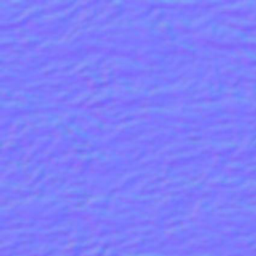
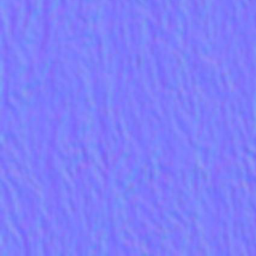
ADD: water shader +stuff

diff --git a/index.html b/index.html
@@ -104,6 +104,8 @@
 		var wallL = null;
 		var wallR = null;
 
+		var renderTarget;
+
 
 		var createScene = async function (jsonData) {
 
@@ -175,6 +177,7 @@
 
 							//FRAME
 							let frame = mesh.clone();
+							renderTarget.renderList.push(frame);
 							frame.name = mesh.name.replace("Asset", "Frame");
 							let matFrame = new BABYLON.StandardMaterial("matFrame", scene);
 							matFrame.diffuseColor = color2;
@@ -211,6 +214,7 @@
 								frame.scaling = frame.scaling.multiply(frameScale);
 								mesh.material = GetPlaceholder();
 							}
+							renderTarget.renderList.push(mesh);
 						}
 
 						//LOGO
@@ -220,6 +224,7 @@
 							matLogo.diffuseTexture = texLogo;
 							matLogo.speculartexture = texLogo;
 							mesh.material = matLogo;
+							renderTarget.renderList.push(mesh);
 						}
 						//BANNER
 						if (mesh.name.indexOf("GalleyBanne") > -1) {
@@ -232,6 +237,7 @@
 						//LOGO3D
 						if (mesh.name.indexOf("Logo_Float") > -1) {
 							logoFloat = mesh;
+							renderTarget.renderList.push(mesh);
 						}
 
 						if (mesh.name.indexOf("glass") > -1) {
@@ -239,8 +245,13 @@
 						}
 						if (mesh.name.indexOf("aterFall") > -1) {
 							//WATER
-							mesh.visibility = false;
-							mesh.checkCollisions = true;
+							// mesh.visibility = false;
+							// mesh.checkCollisions = true;
+							mesh.material = waterMat;
+							var waterClone = mesh.clone();
+							waterClone.scaling = new BABYLON.Vector3(2, 2, 2);
+							waterClone.checkCollisions = true;
+							waterClone.visibility = false;
 						}
 
 						//WALLS + SCENE
@@ -256,9 +267,11 @@
 							mesh.material = mat;
 
 							mesh.checkCollisions = true;
+							renderTarget.renderList.push(mesh);
 						}
 						if (mesh.name.indexOf("Wall_0") > -1) {
 							mesh.checkCollisions = true;
+							renderTarget.renderList.push(mesh);
 						}
 
 						//DOORS
@@ -277,7 +290,7 @@
 
 						if (mesh.name.indexOf("Start") > -1) {
 							mesh.position = new BABYLON.Vector3(mesh.position.x, camHeight, mesh.position.z);
-							mesh.translate(BABYLON.Axis.Z, -4, BABYLON.Space.LOCAL);
+							mesh.translate(BABYLON.Axis.Z, -0, BABYLON.Space.LOCAL);
 							camera.position = mesh.position;
 						}
 
@@ -294,6 +307,7 @@
 					skyboxMaterial.specularColor = new BABYLON.Color3.Black();
 					skyboxMaterial.disableLighting = true;
 					skybox.material = skyboxMaterial;
+					renderTarget.renderList.push(skybox);
 
 
 					FinishSceneImport();
@@ -384,6 +398,114 @@
 
 
 
+
+
+
+			//SHADERS
+			BABYLON.Effect.ShadersStore["waterVertexShader"] = `   
+				precision highp float;
+
+				attribute vec3 position;
+				attribute vec3 normal;
+				attribute vec2 uv;
+				
+				uniform mat4 world;
+				uniform mat4 worldView;
+				uniform mat4 worldViewProjection;
+				uniform mat4 view;
+				uniform mat4 projection;
+				uniform float time;
+
+				varying vec2 vUV;
+				varying vec2 vSP;
+
+				void main(void) {
+
+					// vec4 posW = dModelMatrix * vec4(localPos, 1.0);
+					vec4 posW = worldViewProjection * vec4(position, 1.0);
+					
+					// posW.zw = vec2(0.0, 1.0);
+					
+
+
+					vec4 screenPos;
+					
+						screenPos = vec4(uv.xy * 2.0 - 1.0, 0.5, 1);
+									
+						screenPos = view * posW;
+					
+
+
+					vec3 p = position;
+					// p.x = p.x + sin(2.0 * position.y + time*5.);
+					// p.y = p.y + sin(time*5. + 4.0);
+
+					gl_Position = worldViewProjection * vec4(p, 1.0);
+					
+					vec3 ndc = gl_Position.xyz / gl_Position.w;
+					vec2 viewportCoord = ndc.xy * 0.5 + 0.5; //ndc is -1 to 1 in GL. scale for 0 to 1
+					vec2 viewportPixelCoord = viewportCoord * vec2(1, 1);
+					
+					vUV = uv;
+					vSP = viewportPixelCoord;
+				}`;
+
+			BABYLON.Effect.ShadersStore["waterFragmentShader"] = `
+				precision highp float;
+				
+				uniform sampler2D texTarget;
+				uniform sampler2D texNormal;
+				uniform float time;
+				uniform mat4 world;
+				uniform mat4 worldView;
+				uniform mat4 worldViewProjection;
+				uniform mat4 view;
+				uniform mat4 projection;
+
+				varying vec2 vUV;
+				varying vec2 vSP;
+
+				void main(void) {
+					vec2 vSP = vSP;
+					vec4 normTex = texture2D(texNormal, vec2(5.*vUV.x, 1.*vUV.y+time*0.5));
+					// vSP.y += time*2.;
+					vSP.x += (normTex.x-0.5) *0.1;
+					vSP.y += (normTex.y-0.5) *0.1;
+					// vSP.x += texture2D(texNormal, vSP).x;
+					gl_FragColor = texture2D(texTarget, vSP);
+					// gl_FragColor.z = 1.0 - gl_FragColor.z;
+					gl_FragColor.a = 1.0;
+					gl_FragColor.g += 0.05;
+					gl_FragColor.b += 0.15;
+    		}`;
+
+			waterMat = new BABYLON.ShaderMaterial("shader", scene, {
+				vertex: "water",
+				fragment: "water",
+			},
+				{
+					attributes: ["position", "normal", "uv"],
+					uniforms: ["world", "worldView", "worldViewProjection", "view", "projection, time"],
+					needAlphaBlending: true,
+				});
+
+			renderTarget = new BABYLON.RenderTargetTexture("scene", 1024, scene, true);
+			renderTarget.lodGenerationScale = 0.5;
+			renderTarget.depth = 0.5;
+			renderTarget.wrapU = 2;
+			renderTarget.wrapV = 2;
+			scene.customRenderTargets.push(renderTarget);
+
+
+			waterMat.setTexture("texTarget", renderTarget);
+			waterMat.setTexture("texNormal", new BABYLON.Texture("./tex/waterbump.png", scene));
+
+
+			// var plane = BABYLON.Mesh.CreateBox("plane", 3, scene);
+			// plane.position = new BABYLON.Vector3(0, 2, -2);
+			// plane.material = waterMat;
+
+
 			return scene;
 
 		};
@@ -431,6 +553,9 @@
 							wallR.position.y,
 							wallR.position.z);
 					}
+
+
+					waterMat.setFloat("time", totalTime);
 
 
 					// console.log(camera.position.y)
